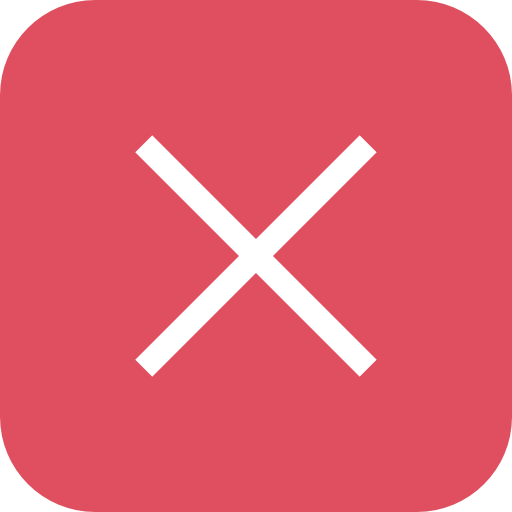
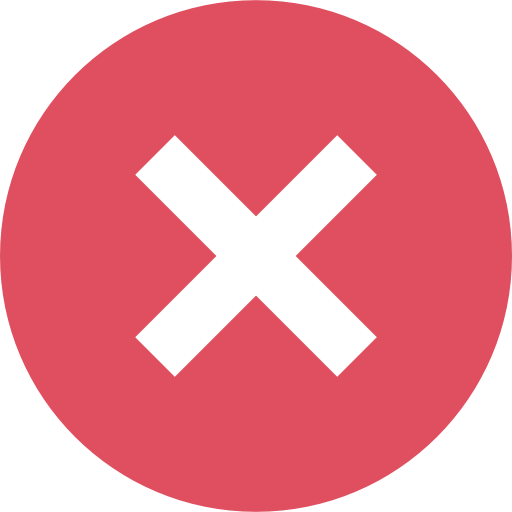
Advances on configuration screen development

diff --git a/Example/Views/ConfigurationScreen.xaml b/Example/Views/ConfigurationScreen.xaml
@@ -1,0 +1,204 @@
+<UserControl x:Class="Example.Views.ConfigurationScreen"
+             xmlns="http://schemas.microsoft.com/winfx/2006/xaml/presentation"
+             xmlns:x="http://schemas.microsoft.com/winfx/2006/xaml"
+             xmlns:mc="http://schemas.openxmlformats.org/markup-compatibility/2006" 
+             xmlns:d="http://schemas.microsoft.com/expression/blend/2008" 
+             xmlns:local="clr-namespace:Example.Views"
+             
+             xmlns:viewmodels="clr-namespace:Example.ViewModels"
+             xmlns:controls="clr-namespace:Example.Controls"
+             xmlns:models="clr-namespace:Example.Models"
+             mc:Ignorable="d" 
+             d:DesignHeight="450" d:DesignWidth="800">
+    <Grid Background="White">
+
+        <Grid.RowDefinitions>
+            <RowDefinition Height="1*"/>
+            <RowDefinition Height="4*"/>
+        </Grid.RowDefinitions>
+
+
+        <Grid Grid.Row="0">
+            <Grid.ColumnDefinitions>
+                <ColumnDefinition Width="1*"/>
+                <ColumnDefinition Width="7*"/>
+
+            </Grid.ColumnDefinitions>
+
+            <!--Icon-->
+
+            <Grid Grid.Column="0">
+                <Image Source="/Resources/Images/Edge.png" Width="auto" Height="auto" Margin="10" >
+
+                </Image>
+
+            </Grid>
+
+            <!--Title-->
+
+            <Grid Grid.Column="1">
+                <TextBlock
+                   FontSize="40"
+    
+                   FontWeight="Bold"
+                   FontFamily="Segoe UI"
+                   HorizontalAlignment="Left"
+                   VerticalAlignment="Center"><Run Language="es-mx" Text="Gateway"/>
+                </TextBlock>
+
+
+            </Grid>
+
+
+
+
+        </Grid>
+
+        <Grid Grid.Row="1">
+            <Grid.RowDefinitions>
+                <RowDefinition Height="*"/>
+                <RowDefinition Height="*"/>
+                <RowDefinition Height="*"/>
+                <RowDefinition Height="*"/>
+                <RowDefinition Height="*"/>
+
+            </Grid.RowDefinitions>
+
+            <Grid Grid.Row="0">
+
+                <Grid.ColumnDefinitions>
+                    <ColumnDefinition Width="80"/>
+                    <ColumnDefinition Width="1*"/>
+                    <ColumnDefinition Width="2*"/>
+                </Grid.ColumnDefinitions>
+
+                <!--ICON-->
+
+                <Grid Grid.Column="0">
+                    <Image Source="/Resources/Images/microchip.png" Margin="10"></Image>
+                </Grid>
+
+                <!--title (direccion ip) -->
+
+                <Grid Grid.Column="1">
+                    <TextBlock
+                       FontSize="32"
+    
+                       FontWeight="Light"
+                       FontFamily="Arial"
+                       HorizontalAlignment="Center"
+                       VerticalAlignment="Center"><Run Language="es-mx" Text="Dirección IP"/></TextBlock>
+                </Grid>
+
+                <!--TEXTBOX-->
+
+                <Grid Grid.Column="2">
+                    <TextBox Name="txtDireccionIp" HorizontalAlignment="Left" Height="auto" Width="350" BorderBrush="Gray" Margin="10" ></TextBox>
+
+                </Grid>
+
+            </Grid>
+
+
+            <!--TEXTBLOCK-->
+
+            <Grid Grid.Row="1">
+
+                <Grid.ColumnDefinitions>
+                    <ColumnDefinition Width="80"/>
+                    <ColumnDefinition Width="1*"/>
+                    <ColumnDefinition Width="2*"/>
+                </Grid.ColumnDefinitions>
+
+
+                <Grid Grid.Column="0">
+
+                    <Image Source="/Resources/Images/local-area-network.png" Margin="10"></Image>
+                </Grid>
+
+
+
+                <!--TITLE-->
+                <Grid Grid.Column="1">
+                    <TextBlock
+                       FontSize="32"
+    
+                       FontWeight="light"
+                       FontFamily="Arial"
+                       HorizontalAlignment="center"
+                       VerticalAlignment="Center"><Run Language="es-mx" Text="Puerto"/></TextBlock>
+                </Grid>
+                <!--TEXTBOX-->
+
+                <Grid Grid.Column="2">
+                    <TextBox Name="txtPuerto" HorizontalAlignment="Left" Height="auto" Width="350" BorderBrush="Gray" Margin="10" ></TextBox>
+
+                </Grid>
+            </Grid>
+
+            <Grid Grid.Row="2">
+                <Grid.ColumnDefinitions>
+                    <ColumnDefinition Width="80"/>
+                    <ColumnDefinition Width="1*"/>
+                    <ColumnDefinition Width="*"/>
+                </Grid.ColumnDefinitions>
+
+                <!--Icon-->
+
+                <Grid Grid.Column="0">
+
+                    <Image Source="/Resources/Images/database.png" Margin="10"></Image>
+                </Grid>
+
+                <!--TITLE-->
+
+                <Grid Grid.Column="1">
+                    <TextBlock
+                       FontSize="36"
+    
+                       FontWeight="Bold"
+                       FontFamily="Arial"
+                       HorizontalAlignment="Left"
+                       VerticalAlignment="Center"><Run Language="es-mx" Text="Base de datos" />
+                    </TextBlock>
+                </Grid>
+
+            </Grid>
+
+            <Grid Grid.Row="3">
+                <Grid.ColumnDefinitions>
+                    <ColumnDefinition Width="80"/>
+                    <ColumnDefinition Width="1*"/>
+                    <ColumnDefinition Width="2*"/>
+                </Grid.ColumnDefinitions>
+
+                <!--ICON-->
+
+                <Grid Grid.Column="0">
+                    <Image Source="/Resources/Images/local-area-network.png" Margin="10"></Image>
+                </Grid>
+
+                <!--ICON-->
+
+                <Grid Grid.Column="1">
+
+                    <TextBlock
+                       FontSize="32"
+    
+                       FontWeight="Light"
+                       FontFamily="Arial"
+                       HorizontalAlignment="Right"
+                       VerticalAlignment="Center" Margin="0,0,34,0"><Run Language="es-mx" Text="Dirección IP"/></TextBlock>
+
+
+                </Grid>
+
+                <Grid Grid.Column="2">
+                    <TextBox Name="TxtdireccionBD" HorizontalAlignment="Left" Height="auto" Width="350" BorderBrush="Gray" Margin="10" ></TextBox>
+                </Grid>
+
+            </Grid>
+
+        </Grid>
+    </Grid>
+</UserControl>

diff --git a/Example/Views/FirstScreen.xaml b/Example/Views/FirstScreen.xaml
@@ -3,8 +3,8 @@
              xmlns:x="http://schemas.microsoft.com/winfx/2006/xaml"
              xmlns:mc="http://schemas.openxmlformats.org/markup-compatibility/2006" 
              xmlns:d="http://schemas.microsoft.com/expression/blend/2008" 
-             xmlns:local="clr-namespace:Example" xmlns:viewmodels="clr-namespace:Example.ViewModels"
-             
+             xmlns:local="clr-namespace:Example" 
+             xmlns:viewmodels="clr-namespace:Example.ViewModels"
              xmlns:controls="clr-namespace:Example.Controls"
              xmlns:models="clr-namespace:Example.Models"
              mc:Ignorable="d" 

diff --git a/Example/Views/ConfigurationScreen.xaml.cs b/Example/Views/ConfigurationScreen.xaml.cs
@@ -1,4 +1,8 @@
-using System.Text;
+using System;
+using System.Collections.Generic;
+using System.Linq;
+using System.Text;
+using System.Threading.Tasks;
 using System.Windows;
 using System.Windows.Controls;
 using System.Windows.Data;
@@ -9,23 +13,16 @@ using System.Windows.Media.Imaging;
 using System.Windows.Navigation;
 using System.Windows.Shapes;
 
-using Example.ViewModels;
-
-
-namespace Example
+namespace Example.Views
 {
     /// <summary>
-    /// Interaction logic for MainWindow.xaml
+    /// Lógica de interacción para ConfigurationScreen.xaml
     /// </summary>
-    public partial class MainWindow : Window
+    public partial class ConfigurationScreen : UserControl
     {
-        public MainWindow()
+        public ConfigurationScreen()
         {
             InitializeComponent();
-
-            DataContext = new MainViewModel();
         }
-
-        
     }
 }

diff --git a/Example/ViewModels/ConnectionViewModel.cs b/Example/ViewModels/ConnectionViewModel.cs
@@ -10,7 +10,7 @@ using System.Collections.Generic;
 using System.Collections.ObjectModel;
 using System.Data;
 using System.Diagnostics;
-using System.Linq;
+using System.Linq; 
 using System.Text;
 using System.Threading.Tasks;
 using System.Windows;
@@ -119,9 +119,6 @@ namespace Example.ViewModels
 
 
         }
-
-       
-
 
         private async void Connect()
         {
